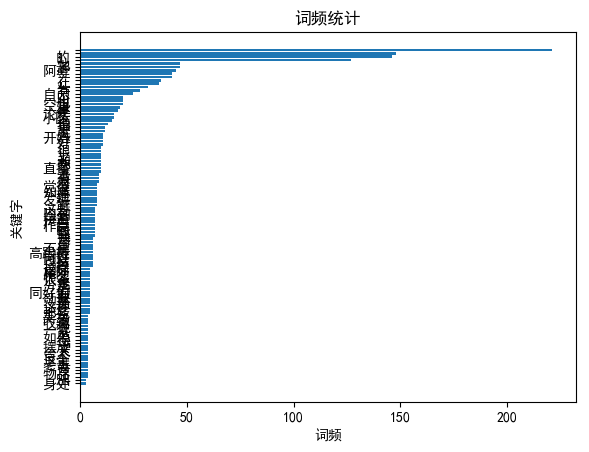
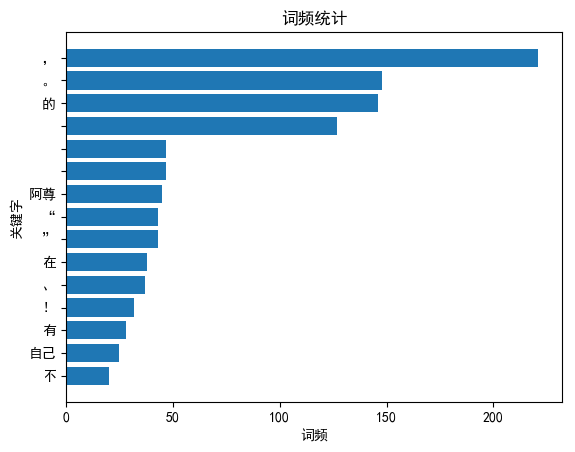
day13

diff --git a/exercises/1901060015/d13/mymodule/main.py b/exercises/1901060015/d13/mymodule/main.py
@@ -20,7 +20,7 @@ logging.basicConfig(format='file:%(filename)s|line:%(lineno)d|message: %(message
 def get_article(url):
     r = requests.get(url)
     document = pyquery.PyQuery(r.text)
-    return document('#js_content').text()
+    return document('#js_content').text().replace("，","").replace("。","").replace("\n","").replace("“","").replace("”","").replace("!","").replace("、","")
 
 def make_P(data,image_path):
     labels = [v[0] for v in data]
